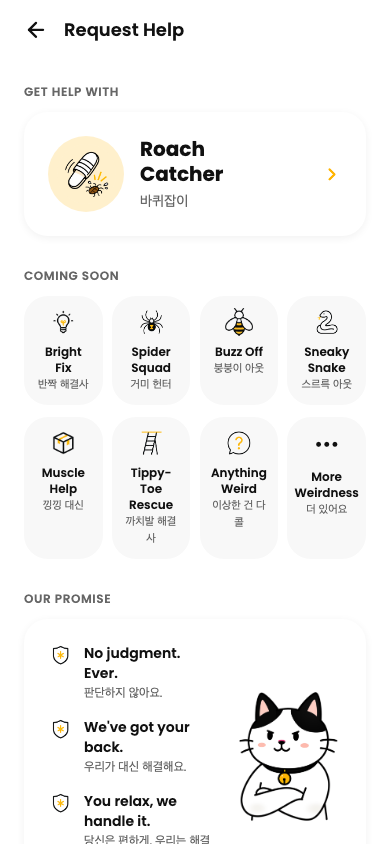
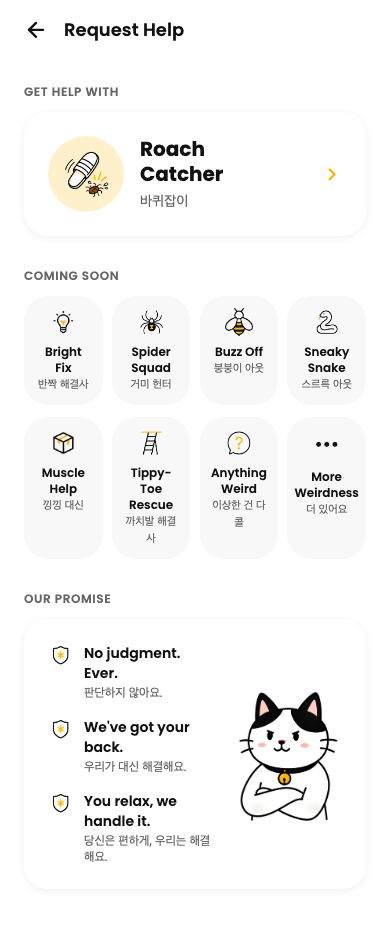
Fix cropped Request screenshot and tighten screenshot grid spacing

diff --git a/src/sections/Walkthrough.tsx b/src/sections/Walkthrough.tsx
@@ -45,12 +45,12 @@ const COPY = {
 function ScreenGrid({ title, screens }: { title: string; screens: { src: string; label: string }[] }) {
   return (
     <div>
-      <h3 className="mb-4 text-sm font-semibold text-neutral-500 dark:text-neutral-400">{title}</h3>
+      <h3 className="mb-5 text-sm font-semibold text-neutral-500 dark:text-neutral-400">{title}</h3>
       <div className="grid grid-cols-2 gap-4 sm:grid-cols-4">
         {screens.map((screen) => (
           <figure key={screen.src} className="overflow-hidden rounded-2xl border border-neutral-200 dark:border-neutral-800">
             <img src={screen.src} alt={screen.label} className="w-full" loading="lazy" />
-            <figcaption className="bg-neutral-50 px-3 py-2 text-xs text-neutral-600 dark:bg-neutral-900 dark:text-neutral-400">
+            <figcaption className="border-t border-neutral-200 bg-neutral-50 px-3 py-3 text-xs text-neutral-600 dark:border-neutral-800 dark:bg-neutral-900 dark:text-neutral-400">
               {screen.label}
             </figcaption>
           </figure>
@@ -84,7 +84,7 @@ export default function Walkthrough() {
           </div>
         </div>
 
-        <div className="mt-12 grid gap-10">
+        <div className="mt-12 grid gap-12">
           <ScreenGrid title={t.userFlow} screens={USER_FLOW[lang]} />
           <ScreenGrid title={t.heroFlow} screens={HERO_FLOW[lang]} />
         </div>
